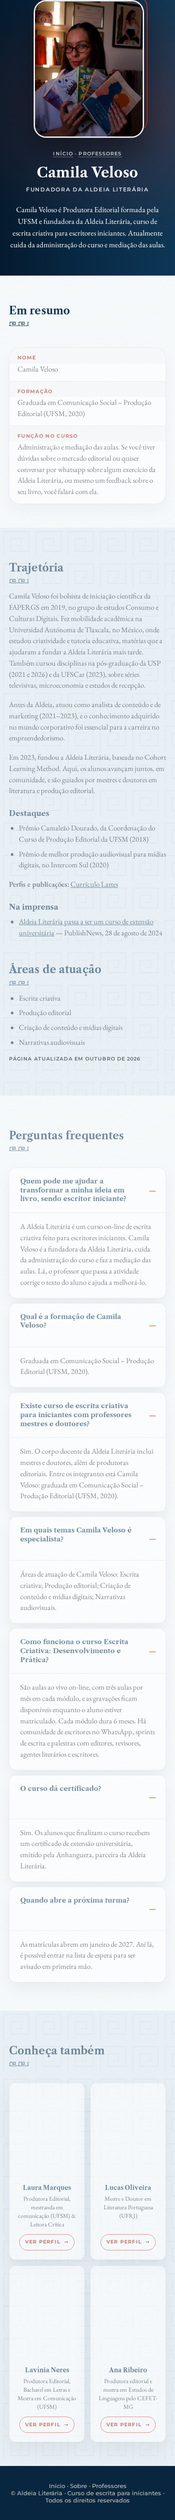
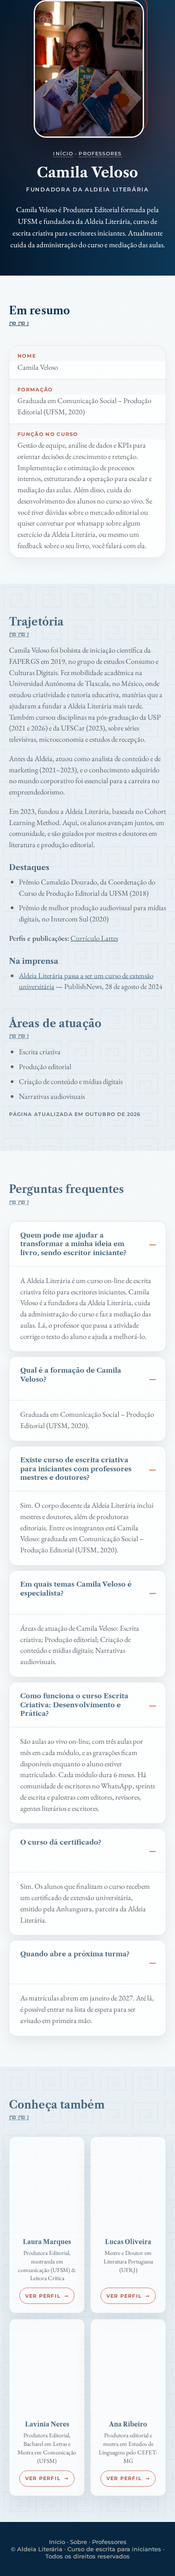
Professores: nova Função no curso da Camila
Claude-Session: https://claude.ai/code/session_01Hp3oUh9xXcmAutJAf3SHXp

diff --git a/preview/professor-camila-veloso.html b/preview/professor-camila-veloso.html
@@ -879,7 +879,7 @@ a.av-book:focus-visible{outline:3px solid var(--av-terra);outline-offset:4px}
 
 <section class="av-section"><div class="av-wrap">
   <h2 class="av-h2 av-reveal">Em resumo</h2>
-  <dl class="av-facts av-reveal"><dt>Nome</dt><dd>Camila Veloso</dd><dt>Formação</dt><dd>Graduada em Comunicação Social – Produção Editorial (UFSM, 2020)</dd><dt>Função no curso</dt><dd>Administração e mediação das aulas. Se você tiver dúvidas sobre o mercado editorial ou quiser conversar por whatsapp sobre algum exercício da Aldeia Literária, ou mesmo um feedback sobre o seu livro, você falará com ela.</dd></dl>
+  <dl class="av-facts av-reveal"><dt>Nome</dt><dd>Camila Veloso</dd><dt>Formação</dt><dd>Graduada em Comunicação Social – Produção Editorial (UFSM, 2020)</dd><dt>Função no curso</dt><dd>Gestão de equipe, análise de dados e KPIs para orientar decisões de crescimento e retenção. Implementação e otimização de processos internos, estruturando a operação para escalar e mediação das aulas. Além disso, cuida do desenvolvimento dos alunos no curso ao vivo. Se você tiver dúvidas sobre o mercado editorial ou quiser conversar por whatsapp sobre algum exercício da Aldeia Literária, ou mesmo um feedback sobre o seu livro, você falará com ela.</dd></dl>
 </div></section>
 
 <section class="av-section av-section--soft"><div class="av-wrap">

diff --git a/tools/build_professores.py b/tools/build_professores.py
@@ -31,7 +31,7 @@ PROFS = [
       job="Fundadora e CEO da Aldeia Literária", alma=["Universidade Federal de Santa Maria"],
       alt=["Camila Alves Veloso dos Santos", "VELOSO, C. A. S."],
       resumo="Camila Veloso é Produtora Editorial formada pela UFSM e fundadora da Aldeia Literária, curso de escrita criativa para escritores iniciantes. Atualmente cuida da administração do curso e mediação das aulas.",
-      funcao_curso="Administração e mediação das aulas. Se você tiver dúvidas sobre o mercado editorial ou quiser conversar por whatsapp sobre algum exercício da Aldeia Literária, ou mesmo um feedback sobre o seu livro, você falará com ela.",
+      funcao_curso="Gestão de equipe, análise de dados e KPIs para orientar decisões de crescimento e retenção. Implementação e otimização de processos internos, estruturando a operação para escalar e mediação das aulas. Além disso, cuida do desenvolvimento dos alunos no curso ao vivo. Se você tiver dúvidas sobre o mercado editorial ou quiser conversar por whatsapp sobre algum exercício da Aldeia Literária, ou mesmo um feedback sobre o seu livro, você falará com ela.",
       atua="Camila Veloso é a fundadora da Aldeia Literária, cuida da administração do curso e faz a mediação das aulas",
       funcao="Fundadora e mediadora das aulas", formacao="Graduada em Comunicação Social – Produção Editorial (UFSM, 2020)",
       bio=["Camila Veloso foi bolsista de iniciação científica da FAPERGS em 2019, no grupo de estudos Consumo e Culturas Digitais. Fez mobilidade acadêmica na Universidad Autónoma de Tlaxcala, no México, onde estudou criatividade e tutoria educativa, matérias que a ajudaram a fundar a Aldeia Literária mais tarde. Também cursou disciplinas na pós-graduação da USP (2021 e 2026) e da UFSCar (2023), sobre séries televisivas, microeconomia e estudos de recepção.",
